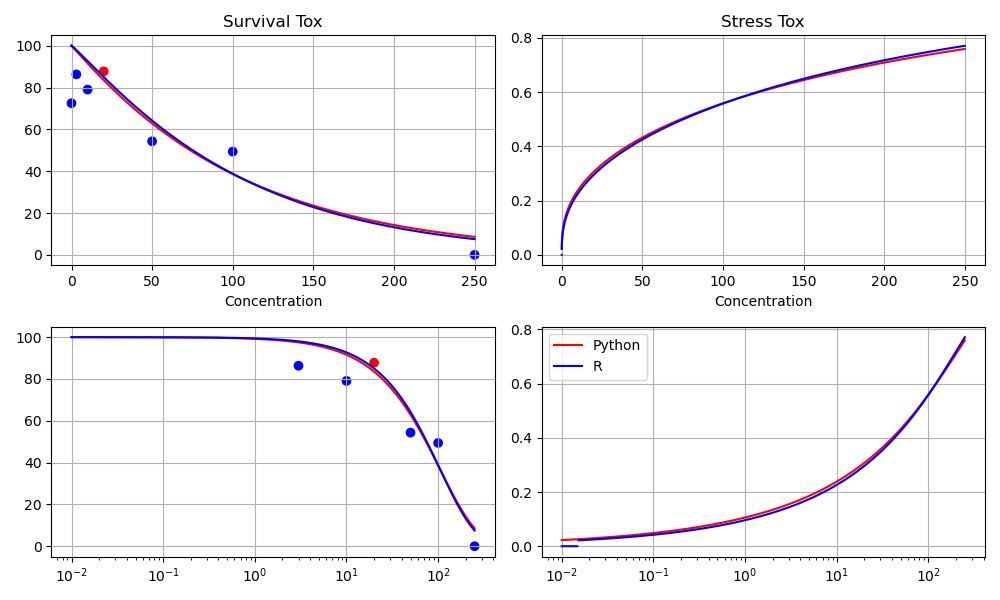
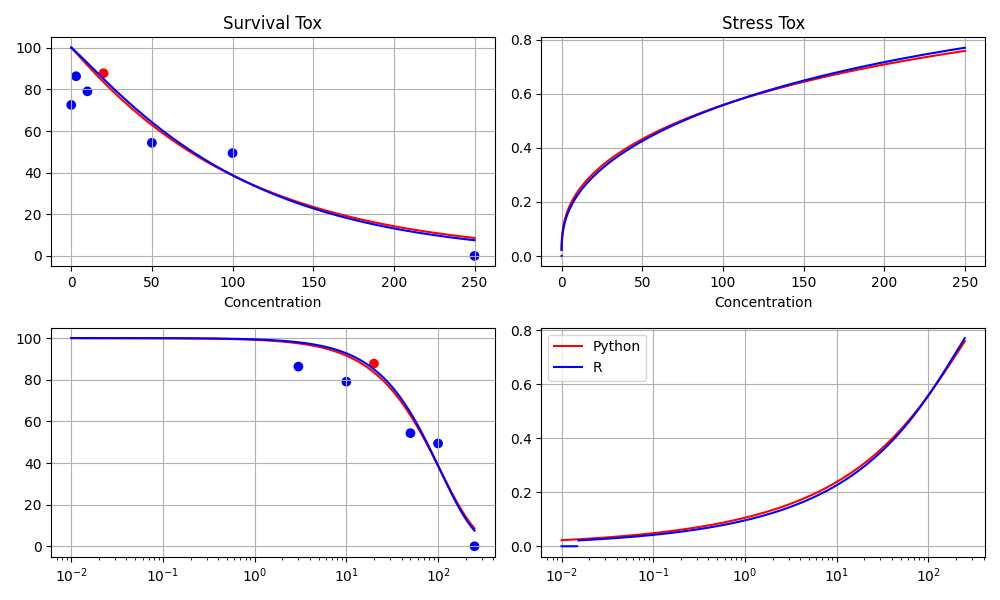
Fixed und bereit zum zeigen

diff --git a/plotting.py b/plotting.py
@@ -1,74 +1,50 @@
-
 import matplotlib.pyplot as plt
 import numpy as np
+from model import ModelPredictions, ModelInputs
 
+def plot_complete(model: ModelPredictions, title=None):
+    fig, axs = plt.subplots(2, 2, figsize=(10, 6))
 
+    plot_survival(model, ax=axs[0, 0], xscale="linear", show_legend=False, xlab=None, ylab="Survival", title="Survival")
+    plot_stress(model, ax=axs[0, 1], xscale="linear", show_legend=False, xlab=None, ylab="Stress", title="Stress")
+    plot_survival(model, ax=axs[1, 0], xscale="log", show_legend=False, xlab="Concentration", ylab="Survival", title=None)
+    plot_stress(model, ax=axs[1, 1], xscale="log", show_legend=False, xlab="Concentration", ylab="Stress", title=None)
+    
+    if title:
+        fig.suptitle(title)
+    
+    plt.tight_layout()
+    return fig
 
-def plot_stress(model, xscalse = "linear", show_legend=False, xlab="concentration", ylab="stress", main=None):
-    if not isinstance(model, dict):
-        raise ValueError("Model must be a dictionary containing necessary data")
+def plot_stress(model: ModelPredictions, ax, xscale="linear", show_legend=False, xlab="Concentration", ylab="Stress", title=None):
+    ax.set_xscale(xscale)
+    ax.set_xlabel(xlab)
+    ax.set_ylabel(ylab)
+    if title:
+        ax.set_title(title)
 
-    curves = model["curves"]
-    point_concentration = np.concatenate(([curves["concentration_for_plots"][0]], model["args"]["concentration"][1:]))
+    ax.plot(model.concentration_curve, model.stress_curve, color="deepskyblue", linestyle='--')
 
-    # Determine ymax for the plot
-    ymax = max(curves["stress"].max(), 1)
-
-    plt.figure()
-    plt.xscale(xscalse)
-    # plt.xlim([curves["concentration_for_plots"][0], curves["concentration_for_plots"][-1]])
-    # plt.ylim([0, ymax])
-    plt.xlabel(xlab)
-    plt.ylabel(ylab)
-    if main:
-        plt.title(main)
-
-    plt.plot(curves["concentration_for_plots"], curves["stress"], color="deepskyblue", linestyle='--')
-
-    # Add legend if requested
     if show_legend:
-        plt.legend()
+        ax.legend()
 
-    plt.show()
+def plot_survival(model: ModelPredictions, ax, xscale="linear", show_legend=False, xlab="Concentration", ylab="Survival", title=None):
+    ax.set_xscale(xscale)
+    ax.set_xlabel(xlab)
+    ax.set_ylabel(ylab)
+    if title:
+        ax.set_title(title)
     
-
-def plot_survival(model, xscalse = "linear", show_legend=False, xlab="concentration", ylab="survival", main=None):
-    if not isinstance(model, dict):
-        raise ValueError("Model must be a dictionary containing necessary data")
-
-    curves = model["curves"]
-    point_concentration = np.concatenate(([curves["concentration_for_plots"][0]], model["args"]["concentration"][1:]))
-
-    plt.figure()
-    plt.xscale(xscalse)
-    # plt.xlim([curves["concentration_for_plots"][0], curves["concentration_for_plots"][-1]])
-    # plt.ylim([0, model["args"]["survival_max"]])
-    plt.xlabel(xlab)
-    plt.ylabel(ylab)
-    if main:
-        plt.title(main)
-
-    # Plot "survival_tox_observed"
+    inputs = model.inputs
     
+    if inputs.hormesis_concentration is not None:
+        colors = np.where(inputs.concentration == inputs.hormesis_concentration, "red", "blue")
+    else:
+        colors = np.array(["blue" for _ in range(len(inputs.concentration))])
     
-    colors = np.where(point_concentration == model["args"]["hormesis_concentration"], "red", "blue")
-    
-    
-    plt.scatter(point_concentration, model["args"]["survival_tox_observed"], label="survival_tox_observed", zorder=5, c= colors)
+    ax.scatter(inputs.concentration, inputs.survival_observerd, label="Survival_observed", zorder=5, c=colors)
 
-    # Plot "survival_tox"
-    plt.plot(curves["concentration_for_plots"], curves["survival"], color="deepskyblue", linestyle='--', label="survival")
+    ax.plot(model.concentration_curve, model.survival_curve, color="deepskyblue", linestyle='--', label="Survival")
 
-
-    # x = np.linspace(0, 1, 1000)
-
-    # plt.plot(x * curves["concentration_for_plots"][-1], (1 - beta.cdf(x, 3.2, 3.2)) * 100)
-
-    # Plot "survival_tox_LL5"
-    # plt.plot(curves["concentration_for_plots"], curves["survival_LL5"], color="darkblue", linestyle='-.', label="survival_LL5")
-
-    # Add legend if requested
     if show_legend:
-        plt.legend()
-
-    plt.show()
+        ax.legend()

diff --git a/model.py b/model.py
@@ -3,7 +3,6 @@ import pandas as pd
 from scipy.optimize import curve_fit
 from scipy.interpolate import interp1d
 from scipy.stats import beta
-from icecream import ic
 from dataclasses import dataclass
 from typing import Optional, Tuple, Dict, List, Callable
 import warnings
@@ -18,6 +17,12 @@ class StandardSettings:
     survival_max: float = 100
     len_curves = 10_000
 
+@dataclass
+class ModelInputs:
+    concentration: np.ndarray
+    survival_observerd: np.ndarray
+    hormesis_concentration: Optional[float]
+    cfg: StandardSettings
 
 @dataclass
 class ModelPredictions:
@@ -29,7 +34,9 @@ class ModelPredictions:
     model: Callable
     lc1: float
     lc99: float
-    hormesis_index : int
+    hormesis_index: int
+    inputs : ModelInputs
+
 
 
 def dose_response_fit(
@@ -39,7 +46,6 @@ def dose_response_fit(
     cfg: StandardSettings = StandardSettings(),
 ) -> ModelPredictions:
 
-    survival_observerd[0] = cfg.survival_max
 
     # general value checks
     if cfg.survival_max <= 0:
@@ -71,6 +77,13 @@ def dose_response_fit(
     if any(survival_observerd > cfg.survival_max) or any(survival_observerd < 0):
         raise ValueError("Observed survival must be between 0 and survival_max.")
 
+    inputs = ModelInputs(
+        concentration=concentration,
+        survival_observerd=survival_observerd,
+        hormesis_concentration=hormesis_concentration,
+        cfg=cfg,
+    )
+    
     regress_conc, regress_surv, hormesis_index = get_regression_data(
         orig_concentration=concentration,
         orig_survival_observerd=survival_observerd,
@@ -83,7 +96,11 @@ def dose_response_fit(
     )
 
     return compute_predictions(
-        model=fitted_func, optim_param=optim_param, concentration=concentration, cfg=cfg, hormesis_index = hormesis_index,
+        model=fitted_func,
+        optim_param=optim_param,
+        inputs=inputs,
+        cfg=cfg,
+        hormesis_index=hormesis_index,
     )
 
 
@@ -102,26 +119,28 @@ def compute_lc(model, lc: int, min_val: float, max_val: float):
 
 
 def compute_predictions(
-    model, optim_param: np.array, concentration: np.array, cfg: StandardSettings, hormesis_index : int
+    model,
+    optim_param: np.array,
+    inputs : ModelInputs,
+    cfg: StandardSettings,
+    hormesis_index: int,
 ):
 
     min_val = 1e-9
     max_val = find_lc_99_max(model)
-    
 
     lc1 = compute_lc(model=model, lc=1, max_val=max_val, min_val=min_val)
     lc99 = compute_lc(model=model, lc=99, max_val=max_val, min_val=min_val)
-    
-    padded_concentration = pad_controll_concentration(concentration)
+
+    padded_concentration = pad_controll_concentration(inputs.concentration)
 
     concentration_curve = 10 ** np.linspace(
-        np.log10(padded_concentration[0]), np.log10(concentration.max()), cfg.len_curves
+        np.log10(padded_concentration[0]), np.log10(inputs.concentration.max()), cfg.len_curves
     )
     pred_survival = model(concentration_curve)
     survival_curve = cfg.survival_max * pred_survival
     stress_curve = survival_to_stress(pred_survival, p=cfg.beta_p, q=cfg.beta_q)
     predicted_survival = model(padded_concentration)
-
 
     return ModelPredictions(
         concentration_curve=concentration_curve,
@@ -132,7 +151,8 @@ def compute_predictions(
         model=model,
         lc1=lc1,
         lc99=lc99,
-        hormesis_index=hormesis_index
+        hormesis_index=hormesis_index,
+        inputs=inputs,
     )
 
 
@@ -164,9 +184,9 @@ def get_regression_data(
     concentration = pad_controll_concentration(orig_concentration=orig_concentration)
 
     survival = orig_survival_observerd / cfg.survival_max
+    survival[0] = 1
 
     if hormesis_concentration is not None:
-
         if hormesis_concentration not in concentration:
             raise ValueError(
                 "hormesis_concentration must equal one of the concentration values."
@@ -184,6 +204,9 @@ def get_regression_data(
             (concentration[:2], concentration[hormesis_index:])
         )
         survival = np.concatenate((survival[:2], survival[hormesis_index:]))
+
+    else:
+        hormesis_index = None
 
     return concentration, survival, hormesis_index
 

diff --git a/plot_all.py b/plot_all.py
@@ -1,0 +1,32 @@
+import os
+from model import dose_response_fit, ModelPredictions
+from plotting import plot_complete
+import pandas as pd
+import numpy as np
+
+for path in os.listdir("formatted_data"):
+    
+    
+    df = pd.read_csv(f"formatted_data/{path}")
+    
+    
+    conc = df.conc.values.astype(np.float64)
+    survival = df["no stress"].values.astype(np.float64)
+    hormesis = df.hormesis_concentration.iloc[0]
+    
+    
+    if np.isnan(hormesis):
+        hormesis = None
+    
+    res : ModelPredictions = dose_response_fit(conc,survival, hormesis_concentration=hormesis)
+    
+    title = f"{df.chemical.iloc[0]} - {df.organism.iloc[0]}"
+    fig = plot_complete(model=res, title=title)
+    
+    save_path = f"python_plots/{path.replace('csv', 'png')}"
+    
+    fig.savefig(save_path)
+    
+    
+    
+    

diff --git a/old_model.py b/old_model.py
@@ -3,7 +3,6 @@ import pandas as pd
 from scipy.optimize import curve_fit
 from scipy.interpolate import interp1d
 from scipy.stats import beta
-from icecream import ic
 
 def ecxsys(
     concentration : np.ndarray,
